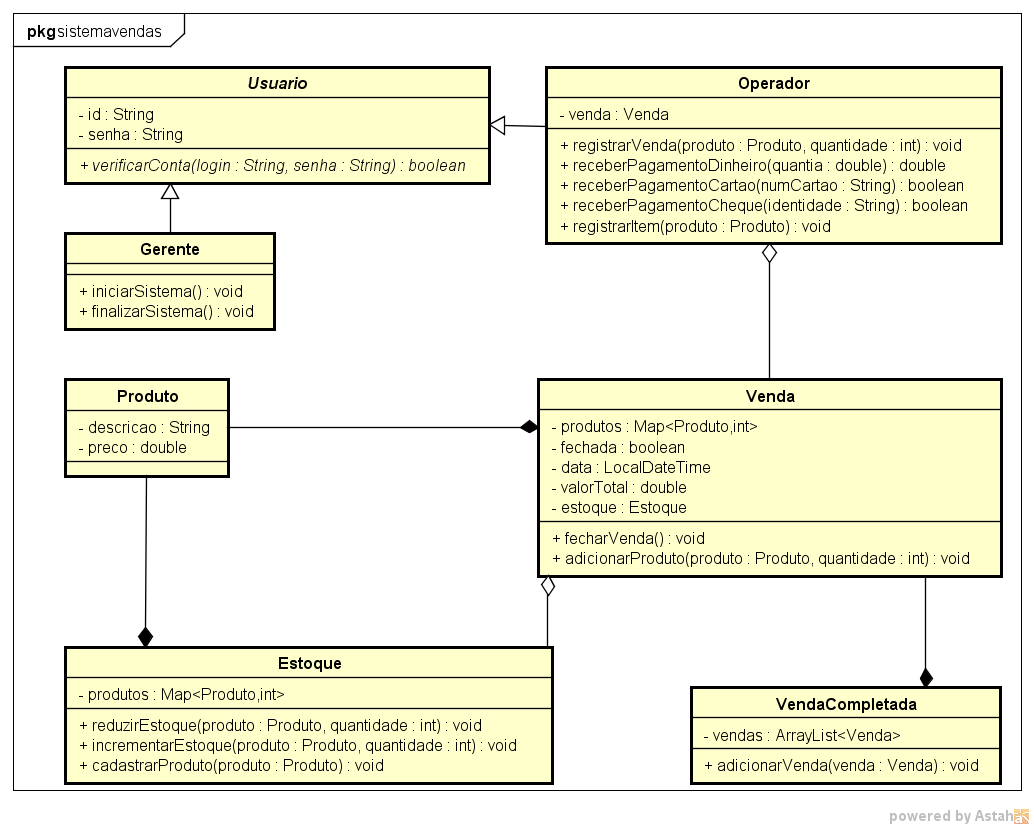
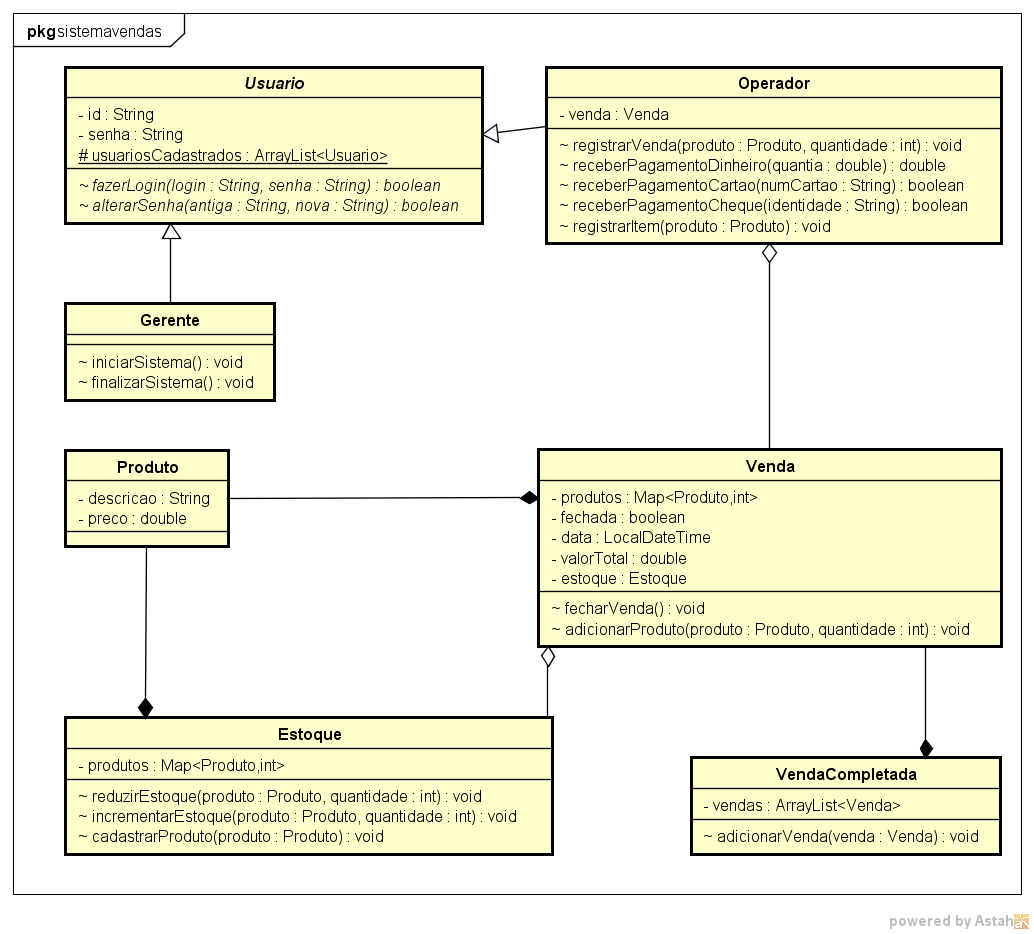
Removidas Checked exceptions e convertidas para Unchecked Diagrama atualizado

Changed region(s): [[0.0, 0.0, 0.9903, 0.7238], [0.0309, 0.7539, 1.0, 0.9952]]

diff --git a/src/main/java/sistemavendas/Usuario.java b/src/main/java/sistemavendas/Usuario.java
@@ -1,5 +1,7 @@
 package sistemavendas;
 
+import java.util.ArrayList;
+
 /**
  * The type Usuario.
  */
@@ -12,6 +14,10 @@ public abstract class Usuario {
 	 * Senha.
 	 */
 	private String senha;
+	/**
+	 * Usuarios cadastrados.
+	 */
+	protected static ArrayList<Usuario> usuariosCadastrados;
 	
 	/**
 	 * Instantiates a new Usuario.
@@ -19,47 +25,20 @@ public abstract class Usuario {
 	 * @param id    the id
 	 * @param senha the senha
 	 */
-	public Usuario( String id, String senha ) {
+	Usuario( String id, String senha ) {
 		this.id = id;
 		this.senha = senha;
 	}
 	
 	/**
-	 * Gets id.
+	 * Alterar senha boolean.
 	 *
-	 * @return the id
-	 */
-	public String getId() {
-		return id;
-	}
-	
-	/**
-	 * Sets id.
+	 * @param antiga the antiga
+	 * @param nova   the nova
 	 *
-	 * @param id the id
+	 * @return the boolean
 	 */
-	public void setId( String id ) {
-		this.id = id;
-	}
-	
-	/**
-	 * Gets senha.
-	 *
-	 * @return the senha
-	 */
-	public String getSenha() {
-		return senha;
-	}
-	
-	/**
-	 * Sets senha.
-	 *
-	 * @param senha the senha
-	 */
-	public void setSenha( String senha ) {
-		this.senha = senha;
-	}
-	
+	abstract boolean alterarSenha( String antiga, String nova );
 	/**
 	 * Verifica se a conta de usuário informada é válida
 	 *
@@ -68,5 +47,5 @@ public abstract class Usuario {
 	 *
 	 * @return verdadeiro se a conta for válida e falso do contrário
 	 */
-	public abstract boolean verificarConta( String login, String senha );
+	abstract boolean fazerLogin( String login, String senha );
 }

diff --git a/src/main/java/sistemavendas/Produto.java b/src/main/java/sistemavendas/Produto.java
@@ -1,9 +1,11 @@
 package sistemavendas;
 
+import sistemavendas.exceptions.PrecoInvalidoException;
+
 /**
  * Classe representando um produto
  */
-public class Produto {
+class Produto {
 	/**
 	 * Descrição do produto
 	 */
@@ -19,9 +21,9 @@ public class Produto {
 	 * @param descricao A descrição do produto
 	 * @param preco     O preço do produto
 	 */
-	public Produto( String descricao, double preco ) {
+	Produto( String descricao, double preco ) {
 		this.descricao = descricao;
-		this.preco = preco;
+		setPreco( preco );
 	}
 	
 	/**
@@ -29,7 +31,7 @@ public class Produto {
 	 *
 	 * @return the descricao
 	 */
-	public String getDescricao() {
+	String getDescricao() {
 		return descricao;
 	}
 	
@@ -38,7 +40,7 @@ public class Produto {
 	 *
 	 * @param descricao the descricao
 	 */
-	public void setDescricao( String descricao ) {
+	void setDescricao( String descricao ) {
 		this.descricao = descricao;
 	}
 	
@@ -47,7 +49,7 @@ public class Produto {
 	 *
 	 * @return the preco
 	 */
-	public double getPreco() {
+	double getPreco() {
 		return preco;
 	}
 	
@@ -56,7 +58,11 @@ public class Produto {
 	 *
 	 * @param preco the preco
 	 */
-	public void setPreco( double preco ) {
+	void setPreco( double preco ) {
+		if ( preco <= 0 ) {
+			throw new PrecoInvalidoException( "Não é possível cadastrar um produto sem valor ou com valor negativo" );
+		}
+		
 		this.preco = preco;
 	}
 }

diff --git a/src/main/java/sistemavendas/exceptions/PrecoInvalidoException.java b/src/main/java/sistemavendas/exceptions/PrecoInvalidoException.java
@@ -1,0 +1,15 @@
+package sistemavendas.exceptions;
+
+/**
+ * The type Preco invalido exception.
+ */
+public class PrecoInvalidoException extends RuntimeException {
+	/**
+	 * Instantiates a new Preco invalido exception.
+	 *
+	 * @param s s
+	 */
+	public PrecoInvalidoException( String s ) {
+		super( s );
+	}
+}

diff --git a/src/main/java/sistemavendas/exceptions/ProdutoNaoCadastradoException.java b/src/main/java/sistemavendas/exceptions/ProdutoNaoCadastradoException.java
@@ -3,7 +3,7 @@ package sistemavendas.exceptions;
 /**
  * The type Produto nao cadastrado exception.
  */
-public class ProdutoNaoCadastradoException extends Exception {
+public class ProdutoNaoCadastradoException extends RuntimeException {
 	/**
 	 * Instantiates a new Produto nao cadastrado exception.
 	 *

diff --git a/src/main/java/sistemavendas/exceptions/EstoqueInsuficienteException.java b/src/main/java/sistemavendas/exceptions/EstoqueInsuficienteException.java
@@ -3,7 +3,7 @@ package sistemavendas.exceptions;
 /**
  * The type Estoque insuficiente exception.
  */
-public class EstoqueInsuficienteException extends Exception {
+public class EstoqueInsuficienteException extends RuntimeException {
 	/**
 	 * Instantiates a new Estoque insuficiente exception.
 	 *

diff --git a/src/main/java/sistemavendas/exceptions/OperacaoInvalidaException.java b/src/main/java/sistemavendas/exceptions/OperacaoInvalidaException.java
@@ -3,7 +3,7 @@ package sistemavendas.exceptions;
 /**
  * The type Operacao invalida exception.
  */
-public class OperacaoInvalidaException extends Exception {
+public class OperacaoInvalidaException extends RuntimeException {
 	/**
 	 * Instantiates a new Operacao invalida exception.
 	 *

diff --git a/src/main/java/sistemavendas/Gerente.java b/src/main/java/sistemavendas/Gerente.java
@@ -1,7 +1,7 @@
 package sistemavendas;
 
 /**
- * The type Gerente.
+ * The type Gerente
  */
 class Gerente extends Usuario {
 	/**
